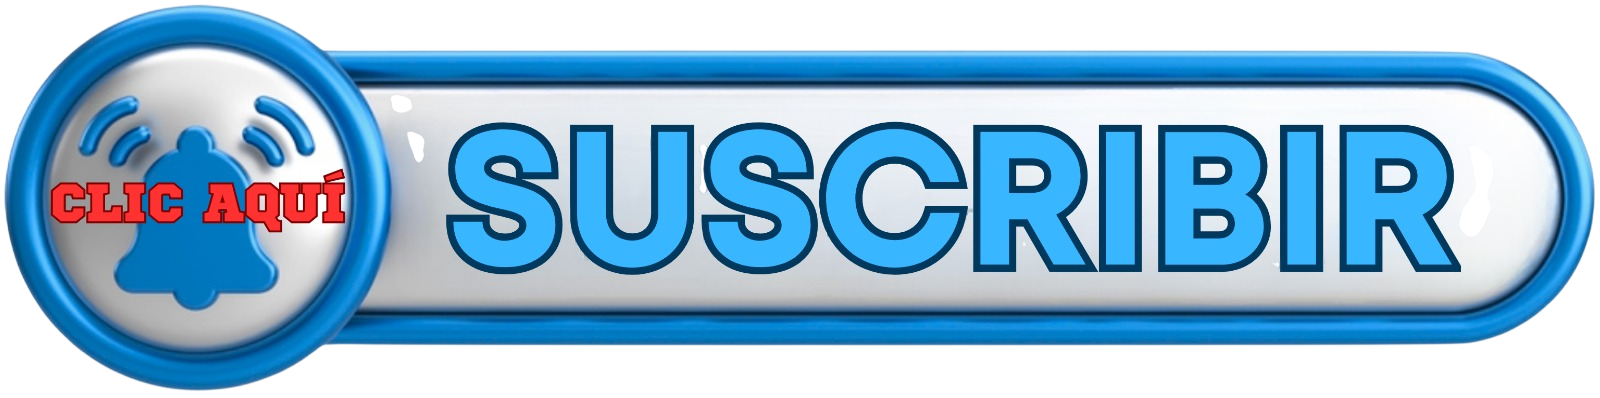
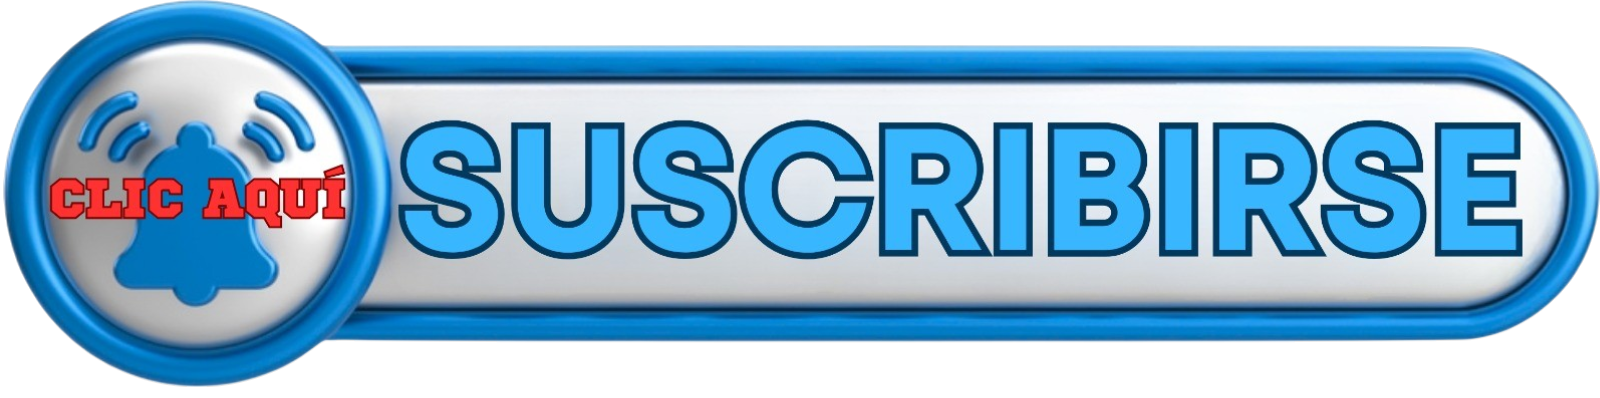
suscribirse animacion

diff --git a/frontend/src/components/VideoPlayer.jsx b/frontend/src/components/VideoPlayer.jsx
@@ -1,4 +1,11 @@
-import React, { useState, useEffect, useRef, useCallback, useMemo } from "react";
+import React, {
+  useCallback,
+  useEffect,
+  useLayoutEffect,
+  useMemo,
+  useRef,
+  useState,
+} from "react";
 import ReactPlayer from "react-player";
 import "../styles/react-player.css";
 import BarraDeslizante from "./BarraDeslizante";
@@ -100,6 +107,7 @@ export default function VideoPlayer({
   onLimpiarConcurso,
   showSubscribePrompt = false,
   subscribePromptStartIndex = null,
+  getSubscribePromptOrigin,
   onSubscribePromptClick,
 }) {
   const playlist = Array.isArray(cola) ? cola : [];
@@ -120,6 +128,7 @@ export default function VideoPlayer({
   const [videoCalificacion, setVideoCalificacion] = useState(null);
   const [colaCalificaciones, setColaCalificaciones] = useState([]);
   const [playerInstanceKey, setPlayerInstanceKey] = useState(0);
+  const [subscribePromptStyle, setSubscribePromptStyle] = useState({});
 
   const playerRef = useRef(null);
   const containerRef = useRef(null);
@@ -237,6 +246,43 @@ export default function VideoPlayer({
     effectiveIndex >= promptStartIndex;
   const shouldRenderSubscribePrompt =
     showSubscribePrompt || shouldShowIndexedSubscribePrompt;
+
+  const updateSubscribePromptOrigin = useCallback(() => {
+    if (!shouldRenderSubscribePrompt) {
+      setSubscribePromptStyle({});
+      return;
+    }
+
+    const container = containerRef.current;
+    const originRect = getSubscribePromptOrigin?.();
+
+    if (!container || !originRect) {
+      setSubscribePromptStyle({});
+      return;
+    }
+
+    const playerRect = container.getBoundingClientRect();
+    const playerCenterX = playerRect.left + playerRect.width / 2;
+    const playerCenterY = playerRect.top + playerRect.height / 2;
+    const originCenterX = originRect.left + originRect.width / 2;
+    const originCenterY = originRect.top + originRect.height / 2;
+    const targetWidth = Math.min(
+      360,
+      Math.max(150, window.innerWidth * 0.3),
+    );
+    const originScale = Math.min(
+      0.62,
+      Math.max(0.16, originRect.width / Math.max(targetWidth, 1)),
+    );
+
+    setSubscribePromptStyle({
+      "--subscribe-target-x": `${playerCenterX}px`,
+      "--subscribe-target-y": `${playerCenterY}px`,
+      "--subscribe-origin-x": `${originCenterX - playerCenterX}px`,
+      "--subscribe-origin-y": `${originCenterY - playerCenterY}px`,
+      "--subscribe-origin-scale": originScale,
+    });
+  }, [getSubscribePromptOrigin, shouldRenderSubscribePrompt]);
 
   const playerKey = videoCalificacion
     ? `calificacion-${activeVideo?._id || activeVideo?.id || activeUrl}-${playerInstanceKey}`
@@ -675,6 +721,27 @@ export default function VideoPlayer({
       onFullscreenHandled?.();
     }
   }, [fullscreenRequested, onFullscreenHandled]);
+
+  useLayoutEffect(() => {
+    updateSubscribePromptOrigin();
+
+    if (!shouldRenderSubscribePrompt) return undefined;
+
+    const handleLayoutChange = () => updateSubscribePromptOrigin();
+
+    window.addEventListener("resize", handleLayoutChange);
+    window.addEventListener("scroll", handleLayoutChange, true);
+
+    return () => {
+      window.removeEventListener("resize", handleLayoutChange);
+      window.removeEventListener("scroll", handleLayoutChange, true);
+    };
+  }, [
+    activeUrl,
+    effectiveIndex,
+    shouldRenderSubscribePrompt,
+    updateSubscribePromptOrigin,
+  ]);
 
   useEffect(() => {
     autoplayInitiatedRef.current = false;
@@ -1131,12 +1198,13 @@ export default function VideoPlayer({
           <button
             type="button"
             className="player-subscribe-prompt"
+            style={subscribePromptStyle}
             onClick={onSubscribePromptClick}
             aria-label="Ver planes para seguir cantando"
           >
             <img
-              src="/para_seguir_cantando1-Photoroom.png"
-              alt="Para seguir cantando"
+              src="/suscribir-Photoroom.png"
+              alt="Suscribir"
             />
           </button>
         )}

diff --git a/frontend/src/pages/Home.jsx b/frontend/src/pages/Home.jsx
@@ -1,4 +1,4 @@
-import { useCallback, useState, useEffect } from "react";
+import { useCallback, useRef, useState, useEffect } from "react";
 import "../styles/inicial.css";
 import "../styles/button.css";
 import "../styles/disco.css";
@@ -37,7 +37,7 @@ import { useSocketContext } from "../hooks/SocketContext";
 const FULLSCREEN_REQUEST_KEY = "openPlayerFullscreen";
 const MESAS_STORAGE_KEY = "karaokeMesas";
 const CONCURSO_STORAGE_KEY = "karaokeConcurso";
-const GUEST_PROMPT_START_INDEX = 5;
+const FREE_USER_SUBSCRIBE_PROMPT_START_INDEX = 6;
 
 export default function Home() {
   const navigate = useNavigate();
@@ -56,6 +56,7 @@ export default function Home() {
   const [token, setToken] = useState(getToken());
   const [roomId, setRoomId] = useState(null);
   const [playerResetKey, setPlayerResetKey] = useState(0);
+  const subscribeButtonRef = useRef(null);
 
   // ✅ NUEVO: evita cambiar la canción directo desde Home
   const [requestedIndex, setRequestedIndex] = useState(null);
@@ -86,11 +87,10 @@ export default function Home() {
   const canUseSystem = Boolean(auth && token && (userRole === "admin" || isSubscribed));
   const isFreeUser = Boolean(auth && token && userRole !== "admin" && !isSubscribed);
   const shouldShowSubscribeOption = isFreeUser;
-  const shouldLimitDefaultVideos = Boolean(
-    isGuest &&
-      !cola.length &&
-      !modoMesaEncendido &&
-      !modoConcursoEncendido,
+
+  const getSubscribePromptOrigin = useCallback(
+    () => subscribeButtonRef.current?.getBoundingClientRect?.() || null,
+    [],
   );
 
   const handleModoMesaChange = useCallback((activo) => {
@@ -652,8 +652,9 @@ export default function Home() {
             onLimpiarConcurso={limpiarConcursoDesdePlayer}
             showSubscribePrompt={false}
             subscribePromptStartIndex={
-              shouldLimitDefaultVideos ? GUEST_PROMPT_START_INDEX : null
+              isFreeUser ? FREE_USER_SUBSCRIBE_PROMPT_START_INDEX : null
             }
+            getSubscribePromptOrigin={getSubscribePromptOrigin}
             onSubscribePromptClick={() =>
               setSeccionActiva(auth && token ? "suscribir" : "registrar")
             }
@@ -797,6 +798,7 @@ export default function Home() {
 
               {shouldShowSubscribeOption && (
                 <button
+                  ref={subscribeButtonRef}
                   type="button"
                   className="boton2"
                   onClick={() => setSeccionActiva("suscribir")}

diff --git a/frontend/src/styles/react-player.css b/frontend/src/styles/react-player.css
@@ -89,16 +89,19 @@
 }
 
 .player-subscribe-prompt {
-  position: absolute;
-  top: 50%;
-  left: 50%;
-  z-index: 7;
-  width: clamp(180px, 34vw, 420px);
+  position: fixed;
+  top: var(--subscribe-target-y, 50vh);
+  left: var(--subscribe-target-x, 50vw);
+  z-index: 20020;
+  width: clamp(150px, 30vw, 360px);
   padding: 0;
   border: 0;
   background: transparent;
   cursor: pointer;
   transform: translate(-50%, -50%);
+  transform-origin: center;
+  animation: player-subscribe-from-button 1.25s cubic-bezier(0.22, 1, 0.36, 1) both;
+  will-change: transform, opacity;
 }
 
 .player-subscribe-prompt img {
@@ -120,6 +123,32 @@
   outline: 3px solid #fff;
   outline-offset: 6px;
   border-radius: 14px;
+}
+
+@keyframes player-subscribe-from-button {
+  0% {
+    opacity: 0.15;
+    transform:
+      translate(
+        calc(-50% + var(--subscribe-origin-x, 46vw)),
+        calc(-50% + var(--subscribe-origin-y, 0px))
+      )
+      scale(var(--subscribe-origin-scale, 0.22));
+  }
+
+  35% {
+    opacity: 1;
+  }
+
+  82% {
+    opacity: 1;
+    transform: translate(-50%, -50%) scale(1.035);
+  }
+
+  100% {
+    opacity: 1;
+    transform: translate(-50%, -50%) scale(1);
+  }
 }
 
 .concurso-ranking-overlay {
